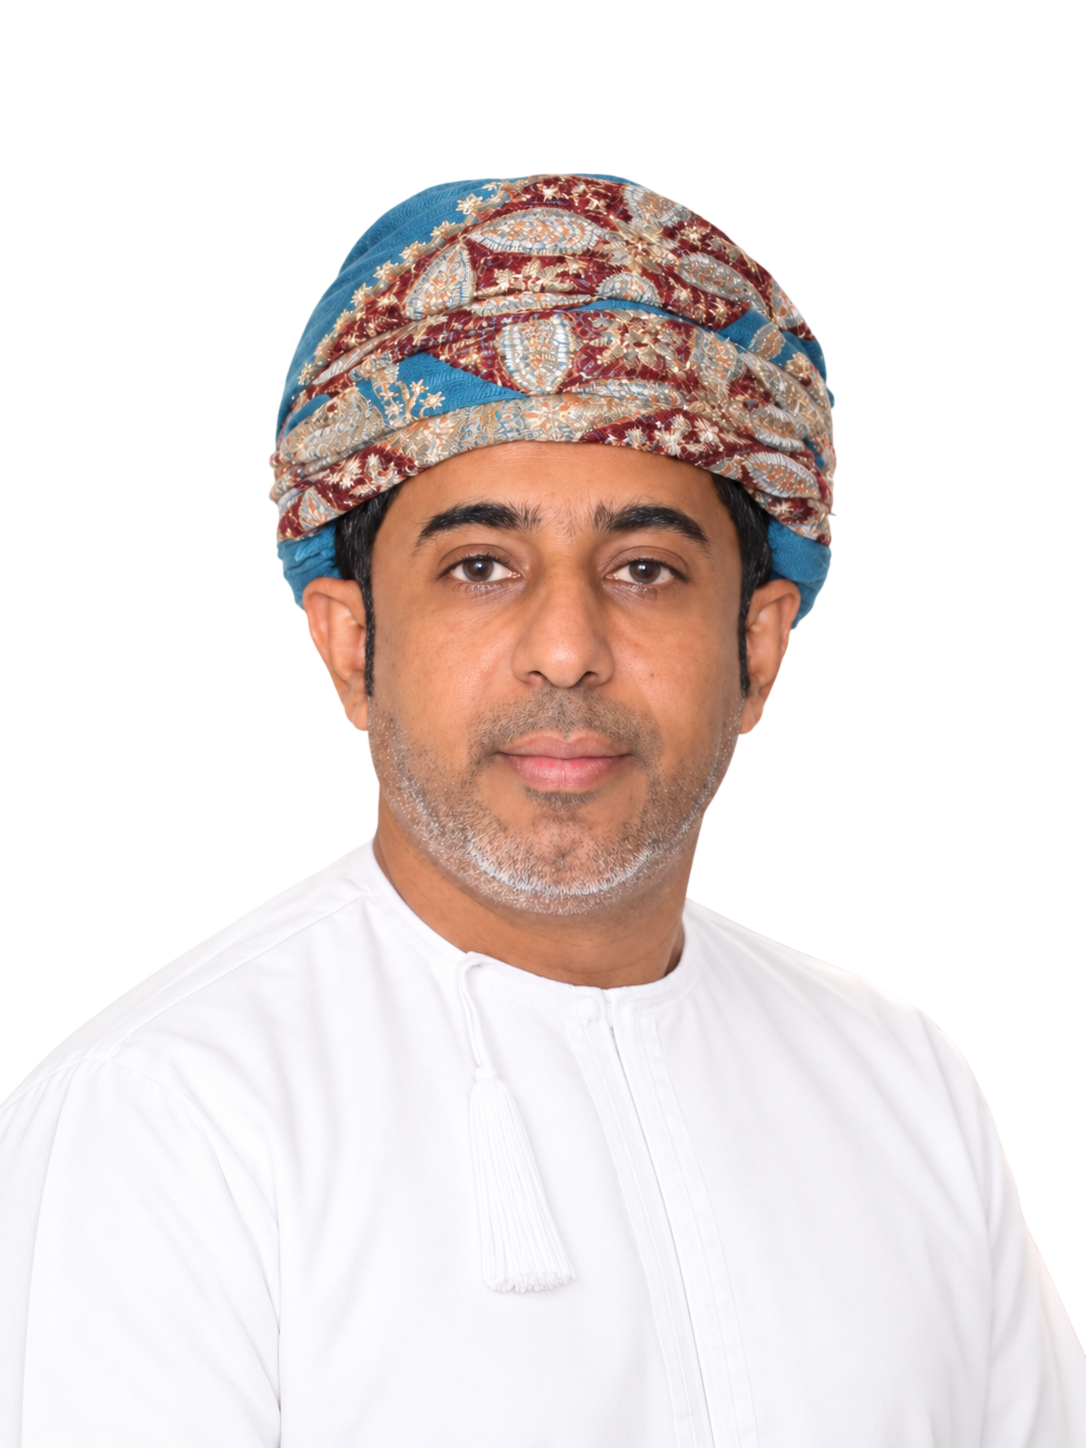
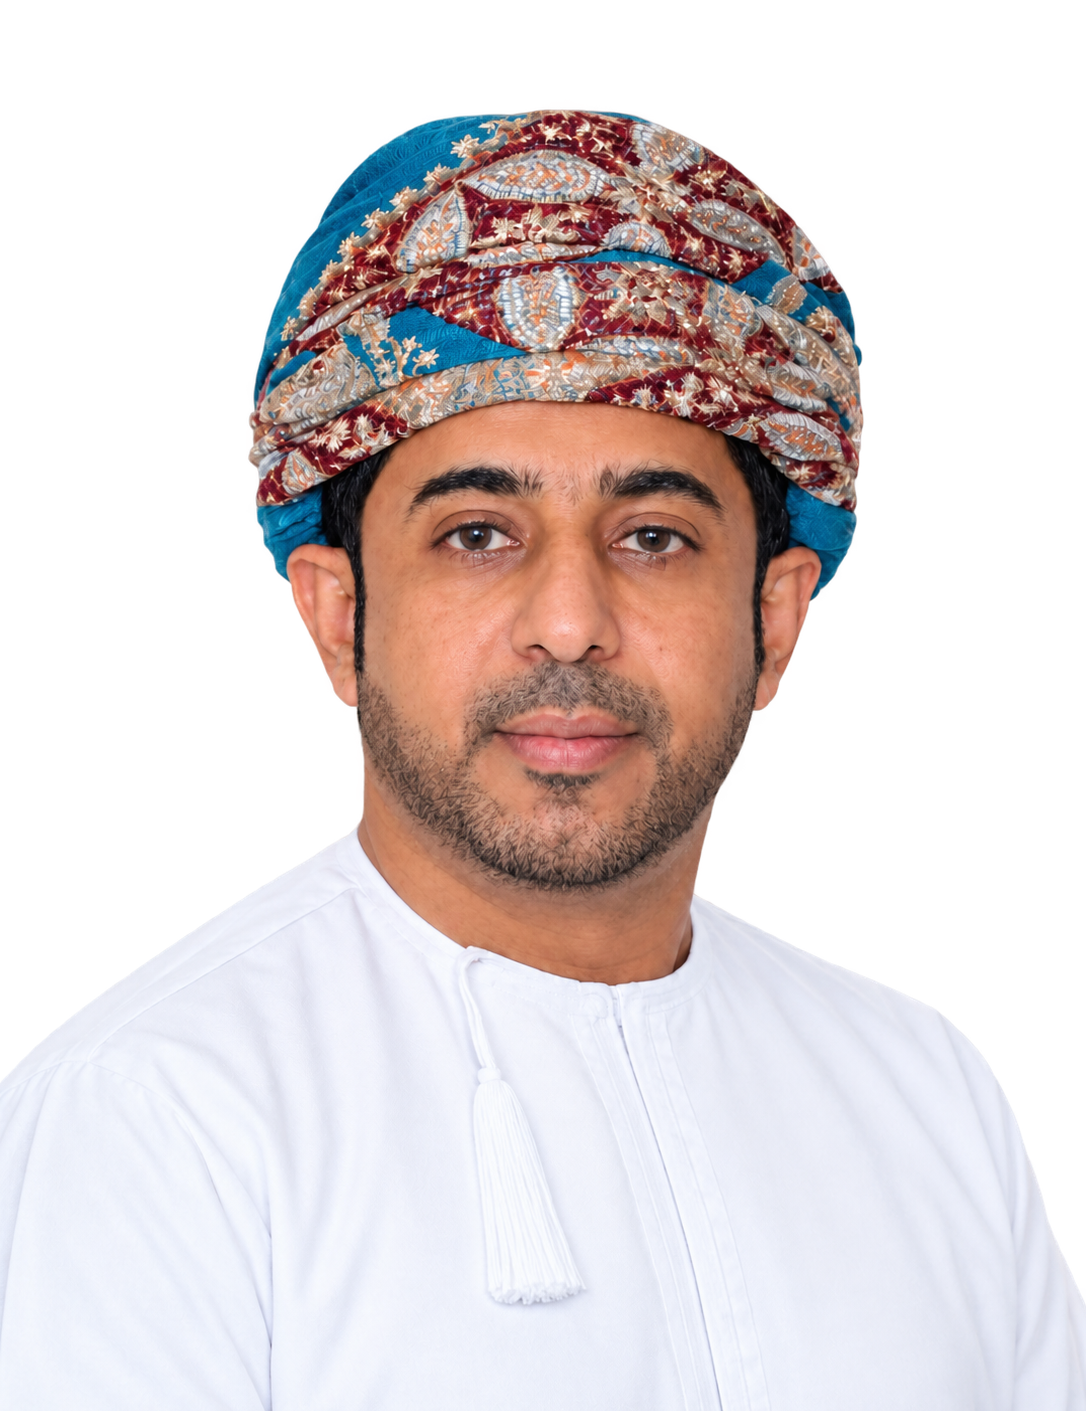
Change fixed

diff --git a/src/components/site/sections/PortfolioSection.tsx b/src/components/site/sections/PortfolioSection.tsx
@@ -4,7 +4,7 @@ import { CONTACT, useT } from "@/i18n";
 import { HOME_PORTFOLIO_PROJECTS } from "../assets";
 import { Btn, H_SCROLL_ITEM, H_SCROLL_STRIP, Reveal, SectionLabel } from "../ui";
 
-/** Asymmetric editorial grid: 3 across the top row, 2 wider items below. */
+/** Asymmetric editorial grid: 3 across the top, 2 wide cards, then a stacked follow-on card. */
 const SPANS = ["lg:col-span-4", "lg:col-span-4", "lg:col-span-4", "lg:col-span-5", "lg:col-span-7"];
 
 export function PortfolioSection() {
@@ -15,6 +15,83 @@ export function PortfolioSection() {
 
     return project ? [{ ...project, image }] : [];
   });
+  const admiralProject = projects[5];
+
+  const renderProjectCard = (
+    project: (typeof projects)[number],
+    index: number,
+    compact = false,
+    stackedPrimary = false,
+  ) => (
+    <Reveal
+      className={cn(
+        "h-full",
+        compact ? "lg:block lg:min-h-0 lg:flex-1" : stackedPrimary && "lg:h-auto lg:shrink-0",
+      )}
+      delay={(index % 3) * 70}
+    >
+      <article className="group relative h-full overflow-hidden border border-border transition-all duration-500 hover:-translate-y-1 hover:border-primary/80 hover:shadow-lg hover:shadow-primary/8">
+        <img
+          src={project.image}
+          alt={
+            project.location
+              ? `${project.name} — ${project.scope}, ${project.location}`
+              : `${project.name} — ${project.scope}`
+          }
+          loading="lazy"
+          width={1200}
+          height={800}
+          className={cn(
+            "aspect-4/3 w-full object-cover transition-transform duration-700 group-hover:scale-108",
+            compact && "lg:size-full lg:aspect-auto lg:object-top",
+          )}
+        />
+        <div
+          aria-hidden="true"
+          className="absolute inset-0 bg-linear-to-t from-background/95 from-0% via-background/70 via-30% to-transparent to-60% transition-opacity duration-500 group-hover:opacity-100"
+        />
+        <div
+          className={cn(
+            "absolute inset-x-0 bottom-0 p-5 transition-transform duration-300 group-hover:-translate-y-1",
+            compact && "lg:p-4",
+          )}
+        >
+          <span className="eyebrow">{project.type}</span>
+          <h3
+            className={cn(
+              "mt-2 font-display text-lg font-bold leading-snug transition-colors duration-300 group-hover:text-primary",
+              compact && "lg:mt-1.5 lg:line-clamp-2 lg:text-sm lg:leading-tight",
+            )}
+          >
+            {project.name}
+          </h3>
+          {compact ? (
+            <p className="mt-1 hidden text-[0.65rem] leading-snug text-primary lg:line-clamp-2 lg:block">
+              {project.scope}
+            </p>
+          ) : (
+            <>
+              <p className="mt-1 text-xs text-primary">{project.scope}</p>
+              {project.location && (
+                <a
+                  href={CONTACT.mapHref}
+                  target="_blank"
+                  rel="noreferrer"
+                  className="mt-2 flex w-fit items-center gap-1.5 text-xs text-muted-foreground transition-colors hover:text-primary"
+                >
+                  <MapPin
+                    aria-hidden="true"
+                    className="size-3.5 text-primary transition-transform duration-300 group-hover:scale-125"
+                  />
+                  {project.location}
+                </a>
+              )}
+            </>
+          )}
+        </div>
+      </article>
+    </Reveal>
+  );
 
   return (
     <section id="portfolio" aria-labelledby="portfolio-heading" className="relative bg-panel">
@@ -39,51 +116,31 @@ export function PortfolioSection() {
         {/* Mobile: horizontal swipe. Desktop: asymmetric grid. */}
         <div className="mt-12">
           <ul className={cn(H_SCROLL_STRIP, "md:grid-cols-2 lg:grid-cols-12")}>
-            {projects.map((p, i) => (
-              <li key={p.name} className={cn(H_SCROLL_ITEM, SPANS[i] ?? "lg:col-span-4")}>
-                <Reveal delay={(i % 3) * 70}>
-                  <article className="group relative h-full overflow-hidden border border-border transition-all duration-500 hover:-translate-y-1 hover:border-primary/80 hover:shadow-lg hover:shadow-primary/8">
-                    <img
-                      src={p.image}
-                      alt={
-                        p.location
-                          ? `${p.name} — ${p.scope}, ${p.location}`
-                          : `${p.name} — ${p.scope}`
-                      }
-                      loading="lazy"
-                      width={1200}
-                      height={800}
-                      className="aspect-4/3 w-full object-cover transition-transform duration-700 group-hover:scale-108"
-                    />
-                    <div
-                      aria-hidden="true"
-                      className="absolute inset-0 bg-linear-to-t from-background/15 via-background/15 to-transparent transition-opacity duration-500 group-hover:opacity-100"
-                    />
-                    <div className="absolute inset-x-0 bottom-0 p-5 transition-transform duration-300 group-hover:-translate-y-1">
-                      <span className="eyebrow">{p.type}</span>
-                      <h3 className="mt-2 font-display text-lg font-bold leading-snug transition-colors duration-300 group-hover:text-primary">
-                        {p.name}
-                      </h3>
-                      <p className="mt-1 text-xs text-primary">{p.scope}</p>
-                      {p.location && (
-                        <a
-                          href={CONTACT.mapHref}
-                          target="_blank"
-                          rel="noreferrer"
-                          className="mt-2 flex w-fit items-center gap-1.5 text-xs text-muted-foreground transition-colors hover:text-primary"
-                        >
-                          <MapPin
-                            aria-hidden="true"
-                            className="size-3.5 text-primary transition-transform duration-300 group-hover:scale-125"
-                          />
-                          {p.location}
-                        </a>
-                      )}
-                    </div>
-                  </article>
-                </Reveal>
-              </li>
-            ))}
+            {projects.map((project, index) => {
+              if (index === 5) {
+                return (
+                  <li key={project.name} className={cn(H_SCROLL_ITEM, "lg:hidden")}>
+                    {renderProjectCard(project, index)}
+                  </li>
+                );
+              }
+
+              const stacksAdmiral = index === 3 && admiralProject;
+
+              return (
+                <li
+                  key={project.name}
+                  className={cn(
+                    H_SCROLL_ITEM,
+                    SPANS[index] ?? "lg:col-span-4",
+                    stacksAdmiral && "lg:flex lg:flex-col",
+                  )}
+                >
+                  {renderProjectCard(project, index, false, Boolean(stacksAdmiral))}
+                  {stacksAdmiral && renderProjectCard(admiralProject, 5, true)}
+                </li>
+              );
+            })}
           </ul>
         </div>
 

diff --git a/src/components/site/assets.ts b/src/components/site/assets.ts
@@ -8,7 +8,6 @@ import detailDrawings from "@/assets/detail-drawings.jpg";
 import detailFacade from "@/assets/detail-facade.jpg";
 
 import teamYaserAlAufi from "@/assets/Team picture/Yasir Salim Hamed Al Aufi.png";
-import teamYaserAlAufiLeadership from "@/assets/Team picture/Yasir Salim Hamed Al Aufi-2.png";
 import teamAjilKunnarMathias from "@/assets/Team picture/Ajil Kunnar Mathias.png";
 import teamAtheeshNadesan from "@/assets/Team picture/Atheesh Nadesan.png";
 import teamAghaShahid from "@/assets/Team picture/Agha Shahid.png";
@@ -41,7 +40,7 @@ import universityOfficeBuilding from "@/assets/Picture of Projects/portfolio/uni
 import supervisionVilla from "@/assets/Picture of Projects/portfolio/supervision-villa.jpg";
 import supervisionVillaDetail01 from "@/assets/Picture of Projects/portfolio/supervision-villa-detail-01.png";
 import supervisionVillaDetail02 from "@/assets/Picture of Projects/portfolio/supervision-villa-detail-02.png";
-import managementCompound from "@/assets/Picture of Projects/portfolio/management-compound.jpg";
+import bonyanOffice from "@/assets/bonyan-office.png";
 import managementCommercial from "@/assets/Picture of Projects/portfolio/management-commercial.jpg";
 import managementCampus from "@/assets/Picture of Projects/portfolio/management-campus.jpg";
 import mepCommercial from "@/assets/Picture of Projects/portfolio/mep-commercial.jpg";
@@ -51,7 +50,7 @@ import quantityCommercial from "@/assets/Picture of Projects/portfolio/quantity-
 import quantityCompound from "@/assets/Picture of Projects/portfolio/quantity-compound.jpg";
 import quantityVillas from "@/assets/Picture of Projects/portfolio/quantity-villas.jpg";
 import planningPark from "@/assets/Picture of Projects/portfolio/planning-park-cropped.jpg";
-import alMurtafaBeach from "@/assets/Picture of Projects/portfolio/Development of Al-Murtafa' Beach, Wilayat of Sur.png";
+import alMurtafaBeach from "@/assets/Picture of Projects/portfolio/al-murtafa-beach-walkway.png";
 import eightVillaComplex from "@/assets/Picture of Projects/portfolio/8-villa-complex.jpg";
 import universityCampusMasterPlan from "@/assets/Picture of Projects/portfolio/university-campus-master-plan.jpg";
 import mainConstruction from "@/assets/Picture of Projects/portfolio/main-construction.jpg";
@@ -170,13 +169,11 @@ export const PORTFOLIO_CARD_IMAGES: Partial<Record<string, Array<string | undefi
 };
 
 /**
- * Project imagery used by the Home page. Every image is also displayed with
- * its matching project on the Portfolio page; keep the service and project
- * indices in sync with `portfolioPage.services` in the dictionaries.
+ * Home-page imagery, including the Bonyan office photograph.
  */
 export const HOME_PROJECT_IMAGES = {
   hero: buildingConstruction03,
-  about: managementCompound,
+  about: bonyanOffice,
   cta: planningPark,
 };
 
@@ -186,11 +183,12 @@ export const HOME_PROJECT_IMAGES = {
  * the Home-page dictionary.
  */
 export const HOME_PORTFOLIO_PROJECTS = [
-  { serviceId: "construction", projectIndex: 0, image: buildingConstruction01 },
+  { serviceId: "planning", projectIndex: 0, image: alMurtafaBeach },
   { serviceId: "design", projectIndex: 1, image: architectural2 },
   { serviceId: "supervision", projectIndex: 2, image: supervisionVilla },
-  { serviceId: "planning", projectIndex: 0, image: planningPark },
+  { serviceId: "planning", projectIndex: 1, image: sahamPublicPark },
   { serviceId: "mep", projectIndex: 0, image: mepCommercial },
+  { serviceId: "construction", projectIndex: 0, image: buildingConstruction01 },
 ] as const;
 
 /** Service card imagery, in the same order as the services in `en.ts`. */
@@ -221,7 +219,7 @@ export const PORTFOLIO_IMAGES = [heroVilla, projSchool, projMosque, projCompound
  * Sourced from `@/assets/Team picture/`; an empty string falls back to a placeholder.
  */
 export const TEAM_PHOTOS = [
-  teamYaserAlAufiLeadership, // Yasir Salim Hamed Al Aufi — Founder & CEO
+  teamYaserAlAufi, // Yasir Salim Hamed Al Aufi — Founder & CEO
   teamAghaShahid, // Agha Shahid — Technical Manager
   teamAtheeshNadesan, // Atheesh Nadesan — General Manager
   teamAjilKunnarMathias, // Ajil Kunnar Mathias — Construction Manager
@@ -233,7 +231,7 @@ export const TEAM_PHOTOS = [
  * placeholder icon. Add entries as portraits are provided.
  */
 export const ORG_PHOTOS: Record<string, string> = {
-  yasir: teamYaserAlAufiLeadership, // Yasir Salim Hamed Al Aufi
+  yasir: teamYaserAlAufi, // Yasir Salim Hamed Al Aufi
   ajil: teamAjilKunnarMathias, // Ajil Kunnar Mathias
   athesh: teamAtheeshNadesan, // Athesh Nadesan
   agha: teamAghaShahid, // Agha Shahid Yazdeb

diff --git a/src/components/site/sections/AboutSection.tsx b/src/components/site/sections/AboutSection.tsx
@@ -1,10 +1,15 @@
+import { useState } from "react";
 import { Check } from "lucide-react";
-import { useT } from "@/i18n";
+import { CONTACT, useT } from "@/i18n";
 import { HOME_PROJECT_IMAGES } from "../assets";
 import { Btn, Reveal, SectionLabel } from "../ui";
 
 export function AboutSection() {
   const { t, lp } = useT();
+  const [showLocation, setShowLocation] = useState(false);
+  const [isHovered, setIsHovered] = useState(false);
+  const [hasFocus, setHasFocus] = useState(false);
+  const locationVisible = showLocation || isHovered || hasFocus;
 
   return (
     <section id="about" aria-labelledby="about-heading" className="relative bg-background">
@@ -52,15 +57,58 @@ export function AboutSection() {
 
           <Reveal delay={100}>
             <div className="relative">
-              <div className="overflow-hidden border border-border">
-                <img
-                  src={HOME_PROJECT_IMAGES.about}
-                  alt={t.about.imageAlt}
-                  loading="lazy"
-                  width={1200}
-                  height={912}
-                  className="aspect-4/3 w-full object-cover"
-                />
+              <div
+                className="relative overflow-hidden border border-border"
+                onMouseEnter={() => setIsHovered(true)}
+                onMouseLeave={() => setIsHovered(false)}
+                onFocus={() => setHasFocus(true)}
+                onBlur={(event) => {
+                  if (!event.currentTarget.contains(event.relatedTarget)) {
+                    setHasFocus(false);
+                    setShowLocation(false);
+                  }
+                }}
+              >
+                <button
+                  type="button"
+                  aria-label={`${t.about.homeImageAlt} — ${t.contact.viewMap}`}
+                  aria-expanded={locationVisible}
+                  aria-controls="about-office-location"
+                  onClick={() => setShowLocation((visible) => !visible)}
+                  className="relative block w-full cursor-pointer focus-visible:outline-4 focus-visible:-outline-offset-4 focus-visible:outline-primary"
+                >
+                  <img
+                    src={HOME_PROJECT_IMAGES.about}
+                    alt={t.about.homeImageAlt}
+                    loading="lazy"
+                    width={1198}
+                    height={1313}
+                    className={`h-auto w-full transition-transform duration-700 ease-out motion-reduce:transition-none ${locationVisible ? "scale-105" : "scale-100"}`}
+                  />
+                  <span
+                    aria-hidden="true"
+                    className="pointer-events-none absolute inset-0 bg-[radial-gradient(ellipse_at_center,transparent_55%,rgba(0,0,0,0.3)_100%)]"
+                  />
+                  <span
+                    aria-hidden="true"
+                    className="pointer-events-none absolute inset-x-0 bottom-0 h-1/3 bg-gradient-to-t from-black/50 to-transparent"
+                  />
+                </button>
+                <div
+                  id="about-office-location"
+                  aria-hidden={!locationVisible}
+                  className={`pointer-events-none absolute inset-x-4 flex -translate-y-1/2 items-center justify-center transition-[top,opacity] duration-700 ease-out motion-reduce:transition-none md:inset-x-6 ${locationVisible ? "top-[72.5%] opacity-100" : "top-[110%] opacity-0"}`}
+                >
+                  <a
+                    href={CONTACT.mapHref}
+                    target="_blank"
+                    rel="noopener noreferrer"
+                    tabIndex={locationVisible ? 0 : -1}
+                    className={`flex min-h-12 items-center justify-center gap-2 rounded-md bg-background px-[26px] py-3 text-center text-base font-semibold text-primary shadow-lg transition-colors hover:bg-primary-foreground focus-visible:outline-2 focus-visible:outline-offset-2 focus-visible:outline-primary ${locationVisible ? "pointer-events-auto" : "pointer-events-none"}`}
+                  >
+                    <span>{t.contact.viewMap}</span>
+                  </a>
+                </div>
               </div>
               <div
                 aria-hidden="true"

diff --git a/src/i18n/ar.ts b/src/i18n/ar.ts
@@ -135,6 +135,7 @@ export const ar: Dict = {
     mission:
       "مهمتنا تقديم مجموعة متكاملة من خدمات التصميم والاستشارات والإشراف باحترافية ومسؤولية ونزاهة.",
     cta: "تعرّف على بنيان",
+    homeImageAlt: "مكتب بنيان في برج أبو عدنان",
     imageAlt: "مهندسون يراجعون المخططات الفنية خلال اجتماع تنسيقي في الموقع",
     highlights: [
       "مملوكة عُمانياً بالكامل، تأسست عام 2016",
@@ -390,17 +391,17 @@ export const ar: Dict = {
           "المسح الطبوغرافي وفحص التربة ودراسات المرور والدراسات الهيدرولوجية والتقييم البيئي والتخطيط العام ودراسات الجدوى والهندسة القيمية.",
         projects: [
           {
-            name: "تطویر شاطع المرتغع ولایت صور",
+            name: "تطوير شاطئ المرتفع، ولاية صور",
             type: "التخطيط العام",
             scope: "مخطط عام لممشى شاطئي بطول 1,600 متر",
             location: "صور، عُمان",
             year: "",
           },
           {
-            name: "حديقة صحار العامة",
+            name: "حديقة صحم العامة",
             type: "فضاء عام",
-            scope: "تخطيط عام وتصميم تنسيق مواقع",
-            location: "صحار",
+            scope: "تخطيط عام وتصميم تنسيق مواقع — 120,000 متر مربع",
+            location: "صحم، عُمان",
             year: "120,000 متر مربع",
           },
           {

diff --git a/src/i18n/en.ts b/src/i18n/en.ts
@@ -51,7 +51,7 @@ export const en = {
       "Engineering Consultancy Since 2021",
       "Team of 50 Professionals",
       "Design to Site Supervision",
-      "Ministry & Private Projects",
+      "Ministry and government project.",
       "Integrity and Technical Precision",
     ],
   },
@@ -135,6 +135,7 @@ export const en = {
     mission:
       "Our mission is to provide a full range of professional design, consultancy, and supervision services with skill, responsibility, and integrity.",
     cta: "Learn About Bonyan",
+    homeImageAlt: "Bonyan office at Abu Adnan Tower",
     imageAlt: "Engineers reviewing technical drawings during a site coordination meeting",
     highlights: [
       "100% Omani-Owned, Founded in 2016",
@@ -406,8 +407,8 @@ export const en = {
           {
             name: "Saham Public Park",
             type: "Public Realm",
-            scope: "Master planning and landscape design",
-            location: "Saham",
+            scope: "Master planning and landscape design — 120,000 sqm",
+            location: "Saham, Oman",
             year: "120,000 sqm",
           },
           {
